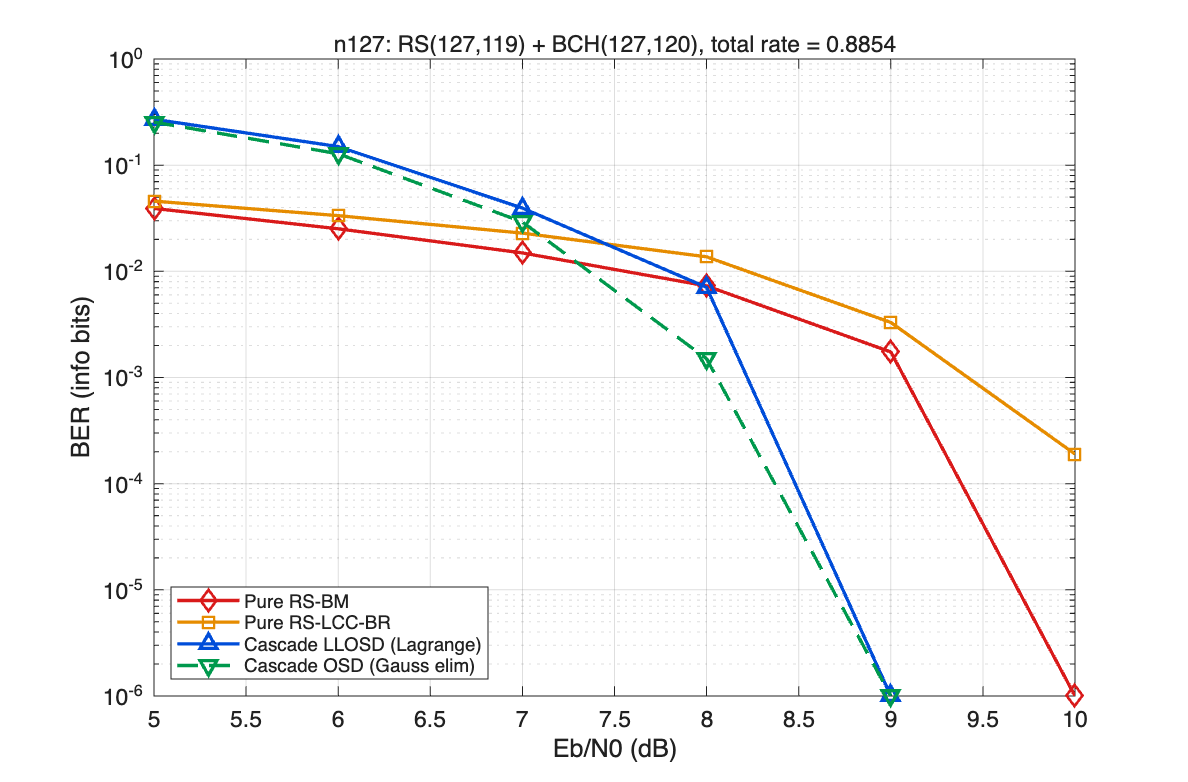
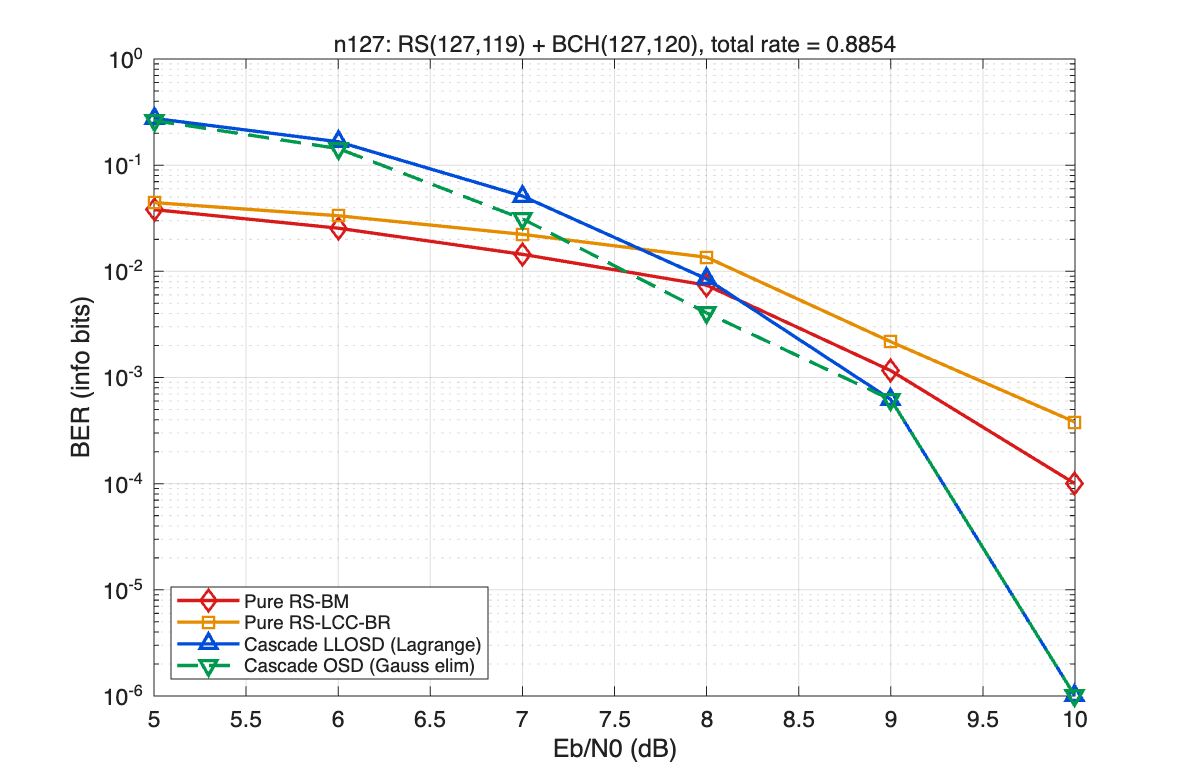
Parallelize MATLAB cascade sim (frame-level parfor): 419s -> 71s (~5.9x on M4 Pro)
Monte-Carlo frames are independent trials, so run_bench.m now parallelizes at
the FRAME level (not per-group): the heaviest group (n=255 OSD Gaussian-elim)
alone is ~79% of serial runtime, so group-level parallelism would be bottlenecked
by it; frame-level parfor slices even that group evenly across 12 cores.

- run_bench.m: add opts.parallel branch — batched parfor (batch = 2x workers)
  that still checks the ">=15 frame errors && >=100 frames -> stop" early-stop
  between batches, preserving serial semantics. Serial while-loop kept unchanged
  as fallback. Each frame uses an independent mrg32k3a substream keyed by the
  global frame index -> reproducible regardless of worker count / scheduling.
- main.m: new signature main(fast, useParallel); default useParallel = PCT
  available & licensed. Starts one Processes parpool (M4 Pro -> 12 workers) once
  and reuses it across all 8 groups. Prints core count + total wall-clock.
  main(true,false) forces serial for comparison.
- README.md: add "并行加速" section documenting frame-level parfor, the mrg32k3a
  reproducibility note, and the measured 419.0s -> 71.3s (~5.9x) speedup.

Validation: selftest all PASS; op counts (f2m/f2, RNG-independent) match serial
to <0.5% and are identical across parallel runs (cross-validates decode logic
untouched). BER differs slightly from old mt19937ar stream but is statistically
equivalent — high-SNR cascade-beats-pure-RS crossover and LLOSD<<OSD (~1400x at
[…]

diff --git a/rs_bch_cascade_matlab/run_bench.m b/rs_bch_cascade_matlab/run_bench.m
@@ -16,43 +16,105 @@ function res = run_bench(method_name, encoder, decoder, rate, ebn0_list, ...
     if ~isfield(opts, 'min_frame_errors'), opts.min_frame_errors = 15; end
     if ~isfield(opts, 'max_frames'),       opts.max_frames = 200;     end
     if ~isfield(opts, 'verbose'),          opts.verbose = true;       end
+    if ~isfield(opts, 'parallel'),         opts.parallel = false;     end
 
     res = struct('ebn0_db', [], 'ser', [], 'ber', [], 'fer', [], ...
         'n_frames', [], 'n_frame_errors', [], 'avg_f2m_ops', [], ...
         'avg_f2_ops', [], 'avg_latency_us', []);
 
+    % Batch size for parallel mode: 2x workers keeps cores busy while still
+    % checking the early-stop condition between batches (preserves the serial
+    % ">=15 frame errors && >=100 frames -> stop" semantics).
+    if opts.parallel
+        pool = gcp('nocreate');
+        if isempty(pool), n_workers = 4; else, n_workers = pool.NumWorkers; end
+        batch = max(1, 2 * n_workers);
+    end
+
     for ei = 1:numel(ebn0_list)
         ebn0 = ebn0_list(ei);
-        rng = RandStream('mt19937ar', 'Seed', opts.seed + round(ebn0 * 100));
         n_frames = 0; n_frame_errors = 0; n_bit_errors = 0; n_symbol_errors = 0;
         sum_f2m = 0; sum_f2 = 0; sum_lat = 0;
         t_start = tic;
 
-        while n_frames < opts.max_frames
-            msg = double(randi(rng, [0, bitshift(1, m_bits) - 1], 1, n_info_symbols));
-            coded = encoder(msg);
-            llr = pam4.runChannel(coded, ebn0, rate, rng);
+        if opts.parallel
+            % ---- parallel frame loop (batched parfor) ----
+            % Each frame owns an independent mrg32k3a substream keyed by its
+            % GLOBAL frame index -> results are identical regardless of worker
+            % count or scheduling order (reproducible).
+            base_seed = opts.seed + round(ebn0 * 100);
+            while n_frames < opts.max_frames
+                nb = min(batch, opts.max_frames - n_frames);
+                b_sym_err   = zeros(1, nb);
+                b_bit_err   = zeros(1, nb);
+                b_frame_err = zeros(1, nb);
+                b_f2m       = zeros(1, nb);
+                b_f2        = zeros(1, nb);
+                b_lat       = zeros(1, nb);
+                base_frame  = n_frames;
+                parfor j = 1:nb
+                    fi = base_frame + j;                       % global frame index
+                    s = RandStream('mrg32k3a', 'Seed', base_seed);
+                    s.Substream = fi;
+                    msg = double(randi(s, [0, bitshift(1, m_bits) - 1], 1, n_info_symbols));
+                    coded = encoder(msg);
+                    llr = pam4.runChannel(coded, ebn0, rate, s);
 
-            counters = OpCounters();
-            t_dec = tic;
-            msg_hat = decoder(llr, counters);
-            dec_us = toc(t_dec) * 1e6;
+                    counters = OpCounters();
+                    t_dec = tic;
+                    msg_hat = decoder(llr, counters);
+                    b_lat(j) = toc(t_dec) * 1e6;
 
-            n_frames = n_frames + 1;
-            n_sym_err = sum(msg_hat(:).' ~= msg(:).');
-            if n_sym_err > 0, n_frame_errors = n_frame_errors + 1; end
-            n_symbol_errors = n_symbol_errors + n_sym_err;
+                    nse = sum(msg_hat(:).' ~= msg(:).');
+                    b_sym_err(j)   = nse;
+                    b_frame_err(j) = double(nse > 0);
+                    mb  = symbolsToBits(msg, m_bits);
+                    mhb = symbolsToBits(msg_hat, m_bits);
+                    b_bit_err(j) = sum(mb ~= mhb);
+                    b_f2m(j) = counters.f2m;
+                    b_f2(j)  = counters.f2;
+                end
+                n_frames        = n_frames + nb;
+                n_symbol_errors = n_symbol_errors + sum(b_sym_err);
+                n_frame_errors  = n_frame_errors  + sum(b_frame_err);
+                n_bit_errors    = n_bit_errors    + sum(b_bit_err);
+                sum_f2m = sum_f2m + sum(b_f2m);
+                sum_f2  = sum_f2  + sum(b_f2);
+                sum_lat = sum_lat + sum(b_lat);
 
-            msg_bits = symbolsToBits(msg, m_bits);
-            msg_hat_bits = symbolsToBits(msg_hat, m_bits);
-            n_bit_errors = n_bit_errors + sum(msg_bits ~= msg_hat_bits);
+                if n_frame_errors >= opts.min_frame_errors && n_frames >= 100
+                    break;
+                end
+            end
+        else
+            % ---- serial frame loop (original, unchanged) ----
+            rng = RandStream('mt19937ar', 'Seed', opts.seed + round(ebn0 * 100));
+            while n_frames < opts.max_frames
+                msg = double(randi(rng, [0, bitshift(1, m_bits) - 1], 1, n_info_symbols));
+                coded = encoder(msg);
+                llr = pam4.runChannel(coded, ebn0, rate, rng);
 
-            sum_f2m = sum_f2m + counters.f2m;
-            sum_f2  = sum_f2  + counters.f2;
-            sum_lat = sum_lat + dec_us;
+                counters = OpCounters();
+                t_dec = tic;
+                msg_hat = decoder(llr, counters);
+                dec_us = toc(t_dec) * 1e6;
 
-            if n_frame_errors >= opts.min_frame_errors && n_frames >= 100
-                break;
+                n_frames = n_frames + 1;
+                n_sym_err = sum(msg_hat(:).' ~= msg(:).');
+                if n_sym_err > 0, n_frame_errors = n_frame_errors + 1; end
+                n_symbol_errors = n_symbol_errors + n_sym_err;
+
+                msg_bits = symbolsToBits(msg, m_bits);
+                msg_hat_bits = symbolsToBits(msg_hat, m_bits);
+                n_bit_errors = n_bit_errors + sum(msg_bits ~= msg_hat_bits);
+
+                sum_f2m = sum_f2m + counters.f2m;
+                sum_f2  = sum_f2  + counters.f2;
+                sum_lat = sum_lat + dec_us;
+
+                if n_frame_errors >= opts.min_frame_errors && n_frames >= 100
+                    break;
+                end
             end
         end
 

diff --git a/rs_bch_cascade_matlab/main.m b/rs_bch_cascade_matlab/main.m
@@ -1,4 +1,4 @@
-function main(fast)
+function main(fast, useParallel)
 %MAIN  One-click RS+BCH low-latency cascade simulation (MATLAB).
 %
 %   低时延级联码算法仿真 —— MATLAB 实现（对应 Python 版 rs_bch_cascade/）。
@@ -19,12 +19,22 @@ function main(fast)
 %     Console: per-SNR BER/FER, per-group latency (us) + theoretical F2^m ops,
 %              and the "RS+BCH vs pure-RS latency increase <= 10%" KPI verdict.
 %
+%   PARALLEL: frames are independent Monte-Carlo trials, so the whole sweep is
+%   parallelized at the frame level via parfor (Parallel Computing Toolbox).
+%   A single Processes parpool is started once and reused across all 8 groups.
+%   Each frame draws from its own mrg32k3a substream keyed by the global frame
+%   index -> results are reproducible regardless of worker count / scheduling.
+%
 %   Usage:
-%     main         % FAST preset ON (default) — a few minutes
-%     main(true)   % FAST preset ON
-%     main(false)  % full precision (slower)
+%     main               % FAST preset ON, parallel ON if PCT available
+%     main(true)         % FAST preset ON
+%     main(false)        % full precision (slower)
+%     main(true, false)  % FAST but FORCE serial (for speedup comparison)
 
     if nargin < 1, fast = true; end
+    if nargin < 2 || isempty(useParallel)
+        useParallel = hasParallel();
+    end
 
     % Make sure this file's folder is on the path (so classes resolve).
     here = fileparts(mfilename('fullpath'));
@@ -41,6 +51,21 @@ function main(fast)
         fprintf('#   预设: FAST (数分钟). 关闭用 main(false) 跑完整精度.\n');
     else
         fprintf('#   预设: FULL 精度 (较慢).\n');
+    end
+
+    % ---- parallel pool (start once, reuse across all 8 groups) ----
+    ncores = feature('numcores');
+    if useParallel
+        nworkers = start_parpool(ncores);
+        if nworkers < 1
+            useParallel = false;   % pool failed to start -> fall back to serial
+        end
+    end
+    if useParallel
+        fprintf('#   并行: 开 (parfor, %d worker / %d 核; 帧级 mrg32k3a 子流, 可复现)\n', ...
+            nworkers, ncores);
+    else
+        fprintf('#   并行: 关 (串行; %d 核可用)\n', ncores);
     end
     fprintf('############################################################\n\n');
 
@@ -68,6 +93,7 @@ function main(fast)
     cfg_names = {'n127', 'n255'};
     ebn0_lists = {ebn0_127, ebn0_255};
 
+    t_all = tic;
     for ci = 1:numel(cfg_names)
         name = cfg_names{ci};
         cfg = cfgs.(name);
@@ -94,7 +120,7 @@ function main(fast)
             frames = methods{mi, 6};
             fprintf('\n--- %s / %s ---\n', name, label);
             opts = struct('seed', 0, 'min_frame_errors', 15, ...
-                'max_frames', frames, 'verbose', true);
+                'max_frames', frames, 'verbose', true, 'parallel', useParallel);
             res = run_bench(label, enc, dec, rate, ebn0_list, ...
                 cfg.k_rs, cfg.m, opts);
             results_by_method.(key) = res;
@@ -109,9 +135,44 @@ function main(fast)
     plotLatencyKpi(all_results.n255, here);
     printKpiTable(all_results);
 
+    total_wall = toc(t_all);
+
     save(fullfile(here, 'data', 'matlab_results.mat'), 'all_results');
     fprintf('\n已保存: data/matlab_results.mat, figures/matlab_n127_ber.*, ');
     fprintf('figures/matlab_n255_ber.*, figures/matlab_latency_bars.*\n');
+    if useParallel
+        fprintf('总墙钟(并行, %d worker): %.1f s   —— 关并行对比: main(%s, false)\n', ...
+            nworkers, total_wall, mat2str(fast));
+    else
+        fprintf('总墙钟(串行): %.1f s   —— 开并行对比: main(%s, true)\n', ...
+            total_wall, mat2str(fast));
+    end
+end
+
+
+% ======================================================================
+function tf = hasParallel()
+    % True if the Parallel Computing Toolbox is installed AND licensed.
+    tf = ~isempty(ver('parallel')) && license('test', 'Distrib_Computing_Toolbox');
+end
+
+
+% ======================================================================
+function nworkers = start_parpool(ncores)
+    % Start (or reuse) a Processes parpool. Returns worker count, 0 on failure.
+    nworkers = 0;
+    try
+        pool = gcp('nocreate');
+        if isempty(pool)
+            % Leave a little headroom; cap at 12 (M4 Pro).
+            n = min(12, max(1, ncores));
+            pool = parpool('Processes', n);
+        end
+        nworkers = pool.NumWorkers;
+    catch ME
+        fprintf('#   [警告] parpool 启动失败, 回退串行: %s\n', ME.message);
+        nworkers = 0;
+    end
 end
 
 

diff --git a/rs_bch_cascade_matlab/README.md b/rs_bch_cascade_matlab/README.md
@@ -10,8 +10,9 @@
 
 ```matlab
 cd rs_bch_cascade_matlab
-main            % FAST 预设（默认开）：数分钟跑完，出全部图
-% main(false)   % 完整精度（更慢、曲线更平滑）
+main               % FAST 预设（默认开）+ 并行（若装了 Parallel Computing Toolbox）
+% main(true, false)% FAST 但强制串行（用于并行/串行加速对比）
+% main(false)      % 完整精度（更慢、曲线更平滑）
 ```
 
 或命令行：
@@ -20,9 +21,38 @@ main            % FAST 预设（默认开）：数分钟跑完，出全部图
 matlab -batch "cd rs_bch_cascade_matlab; main"
 ```
 
-`main` 会：**先跑数值自检（`selftest`）** → 跑两档配置的四组方法 → 画 BER-SNR
+`main` 会：**先跑数值自检（`selftest`）** → （若可用）启动一个 `Processes` 并行池并跨全部
+8 组复用 → 跑两档配置的四组方法（**帧级 `parfor` 并行**）→ 画 BER-SNR
 `semilogy` 折线图 → 画时延/运算量柱状图 + 10% KPI 门限 → 打印各组时延表与 KPI 判定 →
-保存 `data/matlab_results.mat`。
+保存 `data/matlab_results.mat` → 打印总墙钟时间。
+
+## 并行加速（Apple M4 Pro，实测 ≈5.9×）
+
+整条仿真是「2 档配置 × 4 组方法」的蒙特卡洛扫描，**每一帧**（生成消息→级联编码→
+过 PAM4/AWGN 信道→译码）都是相互独立的试验，天然可并行。本实现把并行放在**帧级**
+（不是「8 组各占一核」）——因为最重的一组（n=255 的 OSD 高斯消元对照组）单独就占了串行
+总时间的约 **79%**，按组并行会被它拖死；帧级 `parfor` 则把这一组也均匀切到 12 核上。
+
+- **入口**：`main` 检测到已装并授权 Parallel Computing Toolbox 时**默认开并行**，启动一个
+  `Processes` 并行池（M4 Pro → 12 worker），并**跨全部 8 组复用**（避免反复启停池）。
+  `main(true, false)` 可强制串行。
+- **实现**：`run_bench.m` 里帧循环改为**分批 `parfor`**（batch = 2×worker），批与批之间仍
+  检查「≥15 帧错且 ≥100 帧 → 提前停」，保留原串行语义；串行分支原样保留作回退。
+- **可复现**：每帧用一条独立的 `mrg32k3a` 子流（`Substream = 全局帧号`），结果与 worker
+  数、调度顺序无关。**代价**：随机流从旧的 `mt19937ar`（每 SNR 一条串行流）换成 `mrg32k3a`
+  逐帧子流，抽样序列变了，故 BER 数值与旧串行版**略有不同但统计等价**（曲线走势、门限、
+  量级一致）。而**运算量计数（`f2m`/`f2`）由算法决定、与随机流无关**——并行前后几乎逐点相同，
+  正好交叉验证并行没有破坏译码逻辑。
+
+**实测（FAST 预设，M4 Pro 12 核，同机）：**
+
+| 模式 | 总墙钟 | 加速比 |
+|---|---|---|
+| 串行 `main(true, false)` | **419.0 s** | 1× |
+| 并行 `main(true, true)`  | **71.3 s** | **≈5.9×** |
+
+其中最重的 n=255 OSD 组单点从串行的 ~150 s 降到并行的 ~14 s（≈10×），正是帧级并行对瓶颈
+组的均匀切分之效。
 
 ## 核心创新（技术方案第 3 点）
 
@@ -96,7 +126,7 @@ matlab -batch "cd rs_bch_cascade_matlab; main"
 
 | 文件 | 对应 Python | 职责 |
 |---|---|---|
-| `main.m` | `experiments/n255_scheme_a.py` + `kpi_analysis.py` | 一键入口：跑仿真、画图、打印时延/KPI |
+| `main.m` | `experiments/n255_scheme_a.py` + `kpi_analysis.py` | 一键入口：启/复用并行池、跑仿真、画图、打印时延/KPI/总墙钟 |
 | `selftest.m` | — | 数值自检（GF / RS / BCH / Lagrange / LLOSD≡OSD） |
 | `GF.m` | `src/gf.py` | GF(2^m) EXP/LOG 表 + 域运算 + 多项式运算 + BCH 生成多项式 |
 | `RSCode.m` | `cascade_src/rs_code.py` | RS 系统编码、BM 硬判、LCC-BR 软判 |
@@ -106,7 +136,7 @@ matlab -batch "cd rs_bch_cascade_matlab; main"
 | `osd_decode.m` | `src/osd.py` | **OSD 内码软判（高斯消元，对照）** |
 | `pam4.m` | `cascade_src/pam4.py` | PAM4 调制/AWGN/逐比特 LLR |
 | `CascadeConfig.m` / `CascadedCodec.m` / `PureRSCodec.m` | `cascade_src/cascade.py` | 配置、级联编解码、纯 RS 基线 |
-| `run_bench.m` | `cascade_src/simulate.py` | 蒙特卡洛 SNR 扫描：BER/FER + 时延 + F₂ᵐ 运算量 |
+| `run_bench.m` | `cascade_src/simulate.py` | 蒙特卡洛 SNR 扫描：BER/FER + 时延 + F₂ᵐ 运算量（**帧级 `parfor` 并行 / 串行两分支**） |
 | `OpCounters.m` | `src/osd.py` | 运算量计数器（f2 / f2m / fp / latency） |
 
 ## 输出
